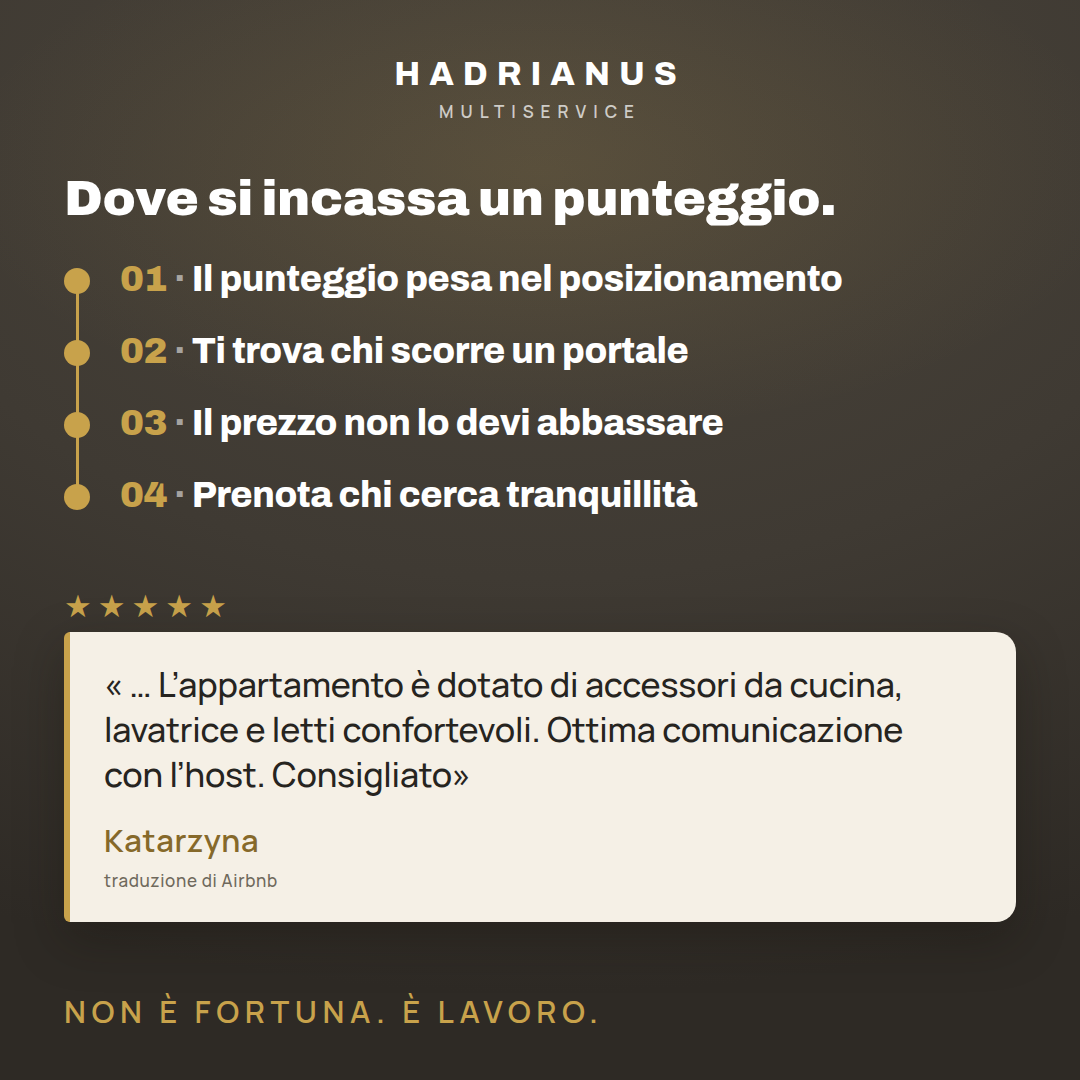
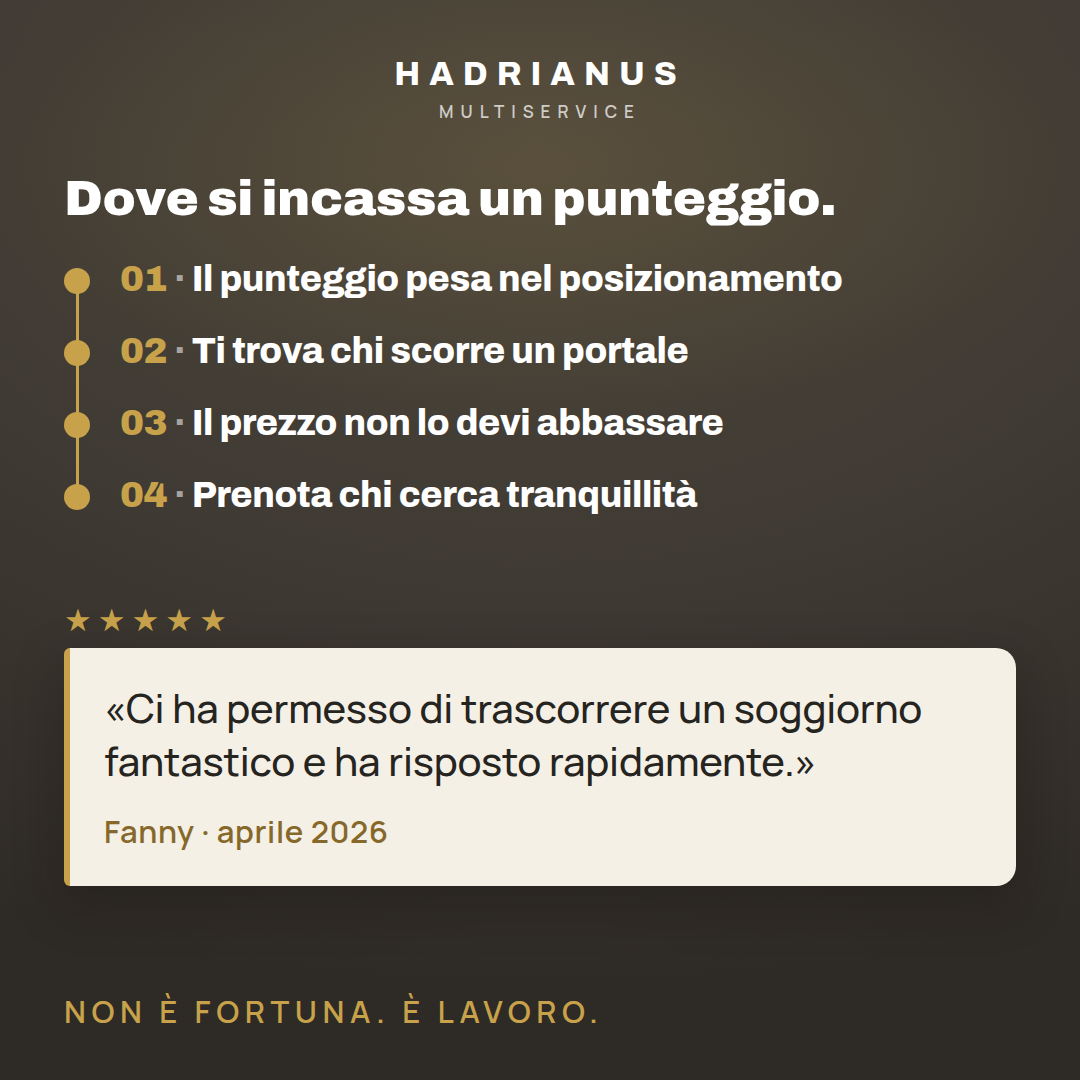
Giornata 18/09: chiuso l'ultimo bloccante, recensioni sostituite
Due delle tre recensioni a schermo ora sono mai pubblicate: Stefania
nella storia 1 (italiana, quindi senza riga di traduzione) e Fanny nel
quadrato Facebook. Attila resta nel carosello: e' la citazione piu' forte
dell'archivio. Nel testo lungo entra Anne Loes.

Il cambio ha reso falsa la riga "non parlano del mare": riscritta in
forma verificabile. Il conteggio per tema e' stato tolto del tutto
perche' sul gruppo effettivo nessun tema copre tutte e quattro.

Aggiunto un registro degli utilizzi all'archivio delle recensioni, cosi'
il problema non si ripresenta.

Claude-Session: https://claude.ai/code/session_01DiTAjmkDvMJQQ8X5h72M34

Changed region(s): [[0.0611, 0.55, 0.9472, 0.7333], [0.0611, 0.7639, 0.9472, 0.8556]]

diff --git a/campagne/giornaliero/2026-09-18/grafiche/F2.dc.html b/campagne/giornaliero/2026-09-18/grafiche/F2.dc.html
@@ -28,8 +28,8 @@
   <div style="position: absolute; left: 120px; right: 64px; top: 404px; font-family: 'Archivo', 'Helvetica Neue', Arial, sans-serif; font-weight: 800; font-size: 36px; line-height: 1.1; letter-spacing: -0.4px; color: #FFFFFF;"><span style="color: #C8A24B; font-weight: 900;">03</span><span style="color: rgba(255,255,255,0.55);"> · </span>Il prezzo non lo devi abbassare</div>
   <div style="position: absolute; left: 64px; top: 484px; width: 26px; height: 26px; border-radius: 999px; background: #C8A24B;"></div>
   <div style="position: absolute; left: 120px; right: 64px; top: 476px; font-family: 'Archivo', 'Helvetica Neue', Arial, sans-serif; font-weight: 800; font-size: 36px; line-height: 1.1; letter-spacing: -0.4px; color: #FFFFFF;"><span style="color: #C8A24B; font-weight: 900;">04</span><span style="color: rgba(255,255,255,0.55);"> · </span>Prenota chi cerca tranquillità</div>
-  <div style="position: absolute; left: 64px; right: 64px; top: 590px; text-align: left; font-size: 31px; letter-spacing: 6px; color: #C8A24B; line-height: 1;">★★★★★</div>
-  <div style="position: absolute; left: 64px; right: 64px; top: 632px; background: #F5F0E6; border-left: 6px solid #C8A24B; border-radius: 6px 20px 20px 6px; padding: 30px 40px 30px 34px; box-shadow: 0 18px 48px rgba(20,17,13,0.34);"><div style="font-family: 'Manrope', 'Helvetica Neue', Arial, sans-serif; font-weight: 500; font-size: 34px; line-height: 1.32; letter-spacing: -0.2px; color: #26241F;"><div>&laquo; &hellip; L&rsquo;appartamento &egrave; dotato di accessori da cucina,</div><div>lavatrice e letti confortevoli. Ottima comunicazione</div><div>con l&rsquo;host. Consigliato&raquo;</div></div><div style="margin-top: 22px; font-family: 'Manrope', 'Helvetica Neue', Arial, sans-serif; font-weight: 600; font-size: 31px; letter-spacing: 0.02em; color: #86692A;">Katarzyna</div><div style="font-family: 'Manrope', 'Helvetica Neue', Arial, sans-serif; font-weight: 500; font-size: 17px; letter-spacing: 0.04em; color: #6f695c; margin-top: 8px;">traduzione di Airbnb</div></div>
+  <div style="position: absolute; left: 64px; right: 64px; top: 604px; text-align: left; font-size: 31px; letter-spacing: 6px; color: #C8A24B; line-height: 1;">★★★★★</div>
+  <div style="position: absolute; left: 64px; right: 64px; top: 648px; background: #F5F0E6; border-left: 6px solid #C8A24B; border-radius: 6px 20px 20px 6px; padding: 34px 40px 34px 34px; box-shadow: 0 18px 48px rgba(20,17,13,0.34);"><div style="font-family: 'Manrope', 'Helvetica Neue', Arial, sans-serif; font-weight: 500; font-size: 40px; line-height: 1.32; letter-spacing: -0.2px; color: #26241F;"><div>&laquo;Ci ha permesso di trascorrere un soggiorno</div><div>fantastico e ha risposto rapidamente.&raquo;</div></div><div style="margin-top: 22px; font-family: 'Manrope', 'Helvetica Neue', Arial, sans-serif; font-weight: 600; font-size: 31px; letter-spacing: 0.02em; color: #86692A;">Fanny &middot; aprile 2026</div></div>
   <div style="position: absolute; left: 64px; right: 64px; top: 990px; text-align: left; font-family: 'Manrope', 'Helvetica Neue', Arial, sans-serif; font-weight: 600; font-size: 31px; letter-spacing: 0.18em; text-transform: uppercase; color: #C8A24B;">Non &egrave; fortuna. &Egrave; lavoro.</div>
   </div>
 </x-dc>

diff --git a/campagne/giornaliero/2026-09-18/grafiche/S1.dc.html b/campagne/giornaliero/2026-09-18/grafiche/S1.dc.html
@@ -25,7 +25,7 @@
   <div style="position: absolute; left: 64px; top: 730px; width: 180px; height: 3px; background: #C8A24B; border-radius: 2px;"></div>
   <div style="position: absolute; left: 64px; right: 64px; top: 770px; text-align: left; font-family: 'Archivo', 'Helvetica Neue', Arial, sans-serif; font-weight: 800; font-size: 50px; line-height: 1.2; letter-spacing: -0.4px; color: #FFFFFF;"><div>Il punteggio &egrave; la ragione per cui puoi</div><div>non farlo: chi ti trova ha gi&agrave;</div><div>un motivo per fidarsi.</div></div>
   <div style="position: absolute; left: 64px; right: 64px; top: 990px; text-align: left; font-size: 31px; letter-spacing: 6px; color: #C8A24B; line-height: 1;">★★★★★</div>
-  <div style="position: absolute; left: 64px; right: 64px; top: 1032px; background: #F5F0E6; border-left: 6px solid #C8A24B; border-radius: 6px 20px 20px 6px; padding: 34px 40px 34px 34px; box-shadow: 0 18px 48px rgba(20,17,13,0.34);"><div style="font-family: 'Manrope', 'Helvetica Neue', Arial, sans-serif; font-weight: 500; font-size: 38px; line-height: 1.34; letter-spacing: -0.2px; color: #26241F;"><div>&laquo;&hellip; L&rsquo;appartamento era pulito, confortevole e</div><div>preparato per il nostro arrivo&hellip; Consiglio</div><div>vivamente questo posto!&raquo;</div></div><div style="margin-top: 22px; font-family: 'Manrope', 'Helvetica Neue', Arial, sans-serif; font-weight: 600; font-size: 31px; letter-spacing: 0.02em; color: #86692A;">Paweł &middot; giugno 2026</div><div style="font-family: 'Manrope', 'Helvetica Neue', Arial, sans-serif; font-weight: 500; font-size: 17px; letter-spacing: 0.04em; color: #6f695c; margin-top: 8px;">traduzione di Airbnb</div></div>
+  <div style="position: absolute; left: 64px; right: 64px; top: 1032px; background: #F5F0E6; border-left: 6px solid #C8A24B; border-radius: 6px 20px 20px 6px; padding: 34px 40px 34px 34px; box-shadow: 0 18px 48px rgba(20,17,13,0.34);"><div style="font-family: 'Manrope', 'Helvetica Neue', Arial, sans-serif; font-weight: 500; font-size: 38px; line-height: 1.34; letter-spacing: -0.2px; color: #26241F;"><div>&laquo;zona gradevole e ben servita, vicinissima al</div><div>mare. casa pulitissima, efficiente, ben arredata,</div><div>luminosa. host paziente, vigile e sempre attento&raquo;</div></div><div style="margin-top: 22px; font-family: 'Manrope', 'Helvetica Neue', Arial, sans-serif; font-weight: 600; font-size: 31px; letter-spacing: 0.02em; color: #86692A;">Stefania &middot; aprile 2026</div></div>
   <div style="position: absolute; left: 64px; right: 64px; top: 1380px; text-align: left; font-family: 'Manrope', 'Helvetica Neue', Arial, sans-serif; font-weight: 600; font-size: 33px; line-height: 1.16; letter-spacing: -0.4px; color: rgba(255,255,255,0.72);"><div>Non &egrave; fortuna. &Egrave; lavoro fatto tutti i giorni.</div></div>
   <div style="position: absolute; left: 64px; right: 64px; top: 1460px; height: 90px; background: #C8A24B; border-radius: 999px; display: flex; align-items: center; justify-content: center; font-family: 'Archivo', 'Helvetica Neue', Arial, sans-serif; font-weight: 800; font-size: 40px; letter-spacing: 0.06em; text-transform: uppercase; color: #2E2A25;">Scrivi &laquo;PUNTEGGIO&raquo; in DM</div>
   </div>

diff --git a/campagne/giornaliero/2026-09-18/grafiche/C4.dc.html b/campagne/giornaliero/2026-09-18/grafiche/C4.dc.html
@@ -33,7 +33,7 @@
   <div style="position: absolute; left: 64px; right: 64px; top: 470px; text-align: left; font-family: 'Archivo', 'Helvetica Neue', Arial, sans-serif; font-weight: 800; font-size: 45px; line-height: 1.16; letter-spacing: -0.4px; color: rgba(255,255,255,0.88);"><div>Chi ha poco tempo non compra</div><div>il risparmio. Compra la certezza.</div></div>
   <div style="position: absolute; left: 64px; right: 64px; top: 648px; text-align: left; font-size: 31px; letter-spacing: 6px; color: #C8A24B; line-height: 1;">★★★★★</div>
   <div style="position: absolute; left: 64px; right: 64px; top: 690px; background: #F5F0E6; border-left: 6px solid #C8A24B; border-radius: 6px 20px 20px 6px; padding: 34px 40px 34px 34px; box-shadow: 0 18px 48px rgba(20,17,13,0.34);"><div style="font-family: 'Manrope', 'Helvetica Neue', Arial, sans-serif; font-weight: 500; font-size: 38px; line-height: 1.34; letter-spacing: -0.2px; color: #26241F;"><div>&laquo; &hellip; L&rsquo;appartamento era in ordine sotto</div><div>ogni aspetto, splendidamente pulito,</div><div>ordinato e confortevole&hellip; &raquo;</div></div><div style="margin-top: 22px; font-family: 'Manrope', 'Helvetica Neue', Arial, sans-serif; font-weight: 600; font-size: 31px; letter-spacing: 0.02em; color: #86692A;">Attila &middot; agosto 2026</div><div style="font-family: 'Manrope', 'Helvetica Neue', Arial, sans-serif; font-weight: 500; font-size: 17px; letter-spacing: 0.04em; color: #6f695c; margin-top: 8px;">traduzione di Airbnb</div></div>
-  <div style="position: absolute; left: 64px; right: 64px; top: 1030px; text-align: left; font-family: 'Manrope', 'Helvetica Neue', Arial, sans-serif; font-weight: 600; font-size: 33px; line-height: 1.32; letter-spacing: -0.4px; color: #FFFFFF;"><div>Guarda di cosa parlano: pulizia, arrivo preparato,</div><div>risposte. Non parlano del mare.</div></div>
+  <div style="position: absolute; left: 64px; right: 64px; top: 1020px; text-align: left; font-family: 'Manrope', 'Helvetica Neue', Arial, sans-serif; font-weight: 600; font-size: 33px; line-height: 1.32; letter-spacing: -0.4px; color: #FFFFFF;"><div>La posizione &egrave; gi&agrave; l&igrave;: non la puoi migliorare.</div><div>Quello che raccontano &egrave; la pulizia e le risposte.</div></div>
   <div style="position: absolute; left: 64px; right: 64px; top: 1130px; text-align: left; font-family: 'Manrope', 'Helvetica Neue', Arial, sans-serif; font-weight: 600; font-size: 33px; line-height: 1.32; letter-spacing: -0.4px; color: rgba(255,255,255,0.72);"><div>Non &egrave; il prezzo a educare l&rsquo;ospite: &egrave; il</div><div>posizionamento a filtrare chi prenota.</div></div>
   <div style="position: absolute; left: 64px; top: 1250px; font-family: 'Manrope', 'Helvetica Neue', Arial, sans-serif; font-weight: 600; font-size: 17px; letter-spacing: 5px; color: #C8A24B;">4 / 5</div>
   </div>

diff --git a/campagne/giornaliero/2026-09-18/grafiche/build.py b/campagne/giornaliero/2026-09-18/grafiche/build.py
@@ -159,8 +159,13 @@ def carosello():
          'ogni aspetto, splendidamente pulito,',
          'ordinato e confortevole&hellip; &raquo;'],
         'Attila &middot; agosto 2026')
-    c += blocco(['Guarda di cosa parlano: pulizia, arrivo preparato,',
-                 'risposte. Non parlano del mare.'], 1030, 33, 600, BIANCO, font=MA, lh=1.32)
+    # «Non parlano del mare» non e' piu' vero sul gruppo citato (Stefania scrive
+    # «vicinissima al mare», Attila la spiaggia, Anne Loes il treno). Riscritta
+    # nella forma difendibile: la posizione e' gia' li' e non si migliora,
+    # il resto e' lavoro. Nessun conteggio: nessun tema copre tutte e quattro.
+    c += blocco(['La posizione &egrave; gi&agrave; l&igrave;: non la puoi migliorare.',
+                 'Quello che raccontano &egrave; la pulizia e le risposte.'],
+                1020, 33, 600, BIANCO, font=MA, lh=1.32)
     c += blocco(['Non &egrave; il prezzo a educare l&rsquo;ospite: &egrave; il',
                  'posizionamento a filtrare chi prenota.'], 1130, 33, 600, T3, font=MA, lh=1.32)
     c += indice('4 / 5')
@@ -218,13 +223,17 @@ def facebook():
         ('03', 'Il prezzo non lo devi abbassare'),
         ('04', 'Prenota chi cerca tranquillità'),
     ], passo=72, size=36)
-    c += stelle(590, size=31)
+    # Fanny sta intera: nessun taglio, quindi niente puntini. Non e' marcata
+    # come tradotta nell'archivio, quindi niente riga di traduzione.
+    # Citazione corta: il corpo sale a 40 invece di scendere, cosi' la card
+    # resta la zona luminosa dominante invece di diventare un francobollo.
+    c += stelle(604, size=31)
     c += card_recensione(
-        632,
-        ['&laquo; &hellip; L&rsquo;appartamento &egrave; dotato di accessori da cucina,',
-         'lavatrice e letti confortevoli. Ottima comunicazione',
-         'con l&rsquo;host. Consigliato&raquo;'],
-        'Katarzyna', size=34, size_meta=31, pad_v=30, lh=1.32)
+        648,
+        ['&laquo;Ci ha permesso di trascorrere un soggiorno',
+         'fantastico e ha risposto rapidamente.&raquo;'],
+        'Fanny &middot; aprile 2026', traduzione=False,
+        size=40, size_meta=31, pad_v=34, lh=1.32)
     c += kicker('Non &egrave; fortuna. &Egrave; lavoro.', 990, colore=ORO, size=31)
     scrivi(os.path.join(HERE, 'F2.dc.html'), c)
 
@@ -259,12 +268,14 @@ def storie():
                  'non farlo: chi ti trova ha gi&agrave;',
                  'un motivo per fidarsi.'], 770, 50, 800, BIANCO, lh=1.2)
     c += stelle(990, size=31)
+    # Stefania scrive in italiano: la riga «traduzione di Airbnb» NON va.
+    # Il testo e' minuscolo all'inizio come su Airbnb: e' verbatim, non si corregge.
     c += card_recensione(
         1032,
-        ['&laquo;&hellip; L&rsquo;appartamento era pulito, confortevole e',
-         'preparato per il nostro arrivo&hellip; Consiglio',
-         'vivamente questo posto!&raquo;'],
-        'Paweł &middot; giugno 2026')
+        ['&laquo;zona gradevole e ben servita, vicinissima al',
+         'mare. casa pulitissima, efficiente, ben arredata,',
+         'luminosa. host paziente, vigile e sempre attento&raquo;'],
+        'Stefania &middot; aprile 2026', traduzione=False)
     c += blocco(['Non &egrave; fortuna. &Egrave; lavoro fatto tutti i giorni.'],
                 1380, 33, 600, T3, font=MA)
     c += cta_pillola(1460, 'Scrivi &laquo;PUNTEGGIO&raquo; in DM', h=90, size=40)

diff --git a/campagne/giornaliero/2026-09-18/copy.md b/campagne/giornaliero/2026-09-18/copy.md
@@ -7,10 +7,13 @@
 **Seed grafico di giornata:** `180926`. Base fumè `#3F3A33`, oro `#C8A24B`, testo `#FFF`, scuro `#2E2A25`.
 
 > **Aggiornato il 18/09/2026 dopo `checklist-compliance.md`.** Applicati i bloccanti 2-7 (citazione
-> Katarzyna riaperta con `…`, caveat Cornell a corpo 26, conteggio sulle sei voci allineato al cinque,
-> parafrasi Booking ammorbidita, etichette proprie del reel, numeri tolti dai kicker). Il bloccante 1
-> (riuso delle cinque recensioni già pubblicate in `facebook-recensioni-superhost`) resta **aperto**:
-> serve una decisione del titolare, e finché non c'è il pacchetto non si pubblica.
+> caveat Cornell a corpo 26, conteggio sulle sei voci allineato al cinque,
+> parafrasi Booking ammorbidita, etichette proprie del reel, numeri tolti dai kicker). Il bloccante 2
+> (Katarzyna tagliata senza `…`) è **superato**: Katarzyna non fa più parte del pacchetto. Il bloccante 1
+> (riuso delle recensioni) è **chiuso**: il titolare ha rimesso la scelta a noi, e i tre slot a schermo
+> usano ora **Stefania** (S1) e **Fanny** (F2), mai pubblicate, con **Attila** invariato in C4 perché è
+> la citazione più forte dell'archivio. Nel testo lungo di Facebook le citate sono Stefania, Fanny,
+> **Anne Loes** e Attila. Registrato in `facebook-recensioni-superhost/recensioni-reali.md`.
 
 ## Canale
 Pacchetto completo: 1 reel 9:16 (in Canva) · 1 carosello 5 slide 4:5 · 1 post Facebook (testo + 3 immagini: 9:16 + 2× 1:1) · 2 storie autoconclusive 9:16.
@@ -27,9 +30,9 @@ Pacchetto completo: 1 reel 9:16 (in Canva) · 1 carosello 5 slide 4:5 · 1 post 
 - **Nessuna struttura nominata, nessun risultato Hadrianus, nessun badge come protagonista.**
 - **Recensioni verbatim:** solo stelle (★★★★★), testo, mese e al massimo il nome di battesimo. **Niente nome della casa, niente indirizzo, niente foto dell'immobile, niente logo Airbnb ricostruito, nessun falso screenshot.** Card pulite in stile Hadrianus.
 - **Nessun punteggio aggregato, decisione chiusa dal titolare (18/09).** Vietati a schermo e nel testo: punteggio complessivo, numero di recensioni, punteggi per categoria. Niente «4,9», niente «47 recensioni». Non è un dato mancante da marcare: è un dato che **abbiamo deciso di non usare**. Nessun marcatore aperto nei file.
-- **Le prove a schermo sono due, e bastano:** le cinque recensioni verbatim **a cinque stelle** (le stelle per singola recensione sono nello screenshot, quelle sì) e il **livello Superhost attivo**.
+- **Le prove a schermo sono due, e bastano:** le recensioni verbatim **a cinque stelle** (tre a schermo, quattro citate nel testo Facebook) (le stelle per singola recensione sono nello screenshot, quelle sì) e il **livello Superhost attivo**.
 - **Superhost — regola d'uso stretta.** Confermato attivo, raggiunto **in due mesi partendo da un profilo nuovo**. Vale come **una riga di appoggio, una sola, in un formato largo** (post Facebook; al massimo l'ultima slide del carosello). Serve solo a chiudere l'obiezione muta «voi ce le avete perché siete lì da anni». **Non è il gancio** (già usato in `reel-superhost-acquisizione`), non è il protagonista, niente confronti con la media, nessuna percentuale. **Fuori dal reel e fuori dalle storie.**
-- **Traduzioni:** Attila, Martin, Paweł e Katarzyna sono ospiti stranieri e i testi sono tradotti da Airbnb. Dove si citano, a schermo va la riga `traduzione di Airbnb`.
+- **Traduzioni:** **Attila** e **Anne Loes** sono ospiti stranieri e i testi sono tradotti da Airbnb: dove si citano va la riga `traduzione di Airbnb`. **Stefania** (italiana) e **Fanny** (non marcata come tradotta nell'archivio) **non** portano quella riga.
 - **Tagli:** consentito accorciare con `…`, vietato riscrivere anche una sola parola. Sono prova, non copy.
 
 ## Recensioni verbatim — testi usati e capienza degli slot
@@ -38,13 +41,13 @@ Fonte: screenshot di annuncio Airbnb reale gestito da Hadrianus, fornito dal tit
 
 | Slot | Dove | Testo a schermo (verbatim, così com'è) | Battute | Meta a schermo |
 |---|---|---|---|---|
-| R1 | Storia 1, card centrale | «… L'appartamento era pulito, confortevole e preparato per il nostro arrivo… Consiglio vivamente questo posto!» — **testo effettivamente a schermo**; l'originale integrale (198 battute) non entrava nella card senza ridurre il corpo | 105 — 3 righe, Manrope 500 corpo 38 | ★★★★★ · Paweł · giugno 2026 · `traduzione di Airbnb` |
+| R1 | Storia 1, card centrale | «zona gradevole e ben servita, vicinissima al mare. casa pulitissima, efficiente, ben arredata, luminosa. host paziente, vigile e sempre attento» — **integrale, nessun taglio**. Il minuscolo iniziale è di Airbnb: verbatim, non si corregge | 148 — 3 righe, Manrope 500 corpo 38 | ★★★★★ · Stefania · aprile 2026 · **nessuna riga di traduzione: è italiana** |
 | R2 | Carosello C4, card alta | «… L'appartamento era in ordine sotto ogni aspetto, splendidamente pulito, ordinato e confortevole…» — **testo effettivamente a schermo**, stessa forma già usata nel testo Facebook | 101 — 3 righe, Manrope 500 corpo 38 | ★★★★★ · Attila · agosto 2026 · `traduzione di Airbnb` |
-| R3 | Facebook F2, riquadro basso | «… L'appartamento è dotato di accessori da cucina, lavatrice e letti confortevoli. Ottima comunicazione con l'host. Consigliato» | 124 — capienza 130 (3 righe × 44, Manrope 500 corpo 34) | ★★★★★ · Katarzyna · `traduzione di Airbnb` (mese nel testo del post) |
-| R4 | Testo Facebook (solo testo, non a schermo) | «Appartamento ben curato e pulito, ottima posizione.» — Aline, giugno 2026 | 51 | — |
-| R5 | Testo Facebook (solo testo, non a schermo) | «Appartamento bello e pulito, vicino alla spiaggia e alla metropolitana…» — Martin, giugno 2026, traduzione di Airbnb | 71 | — |
+| R3 | Facebook F2, riquadro basso | «Ci ha permesso di trascorrere un soggiorno fantastico e ha risposto rapidamente.» — **integrale, nessun taglio, nessun puntino** | 79 — 2 righe, Manrope 500 corpo **40** (citazione corta: il corpo sale, così la card resta la zona luminosa dominante) | ★★★★★ · Fanny · aprile 2026 · **nessuna riga di traduzione: non è marcata come tradotta** |
+| R4 | Testo Facebook (solo testo, non a schermo) | «Ci è piaciuto molto soggiornare in questo appartamento! Era moderno, pulito e arredato con cura. Letto e divano molto comodi…» — Anne Loes, maggio 2026, traduzione di Airbnb | 127 | — |
+| R5 | — | *(slot chiuso: le citate nel testo Facebook sono quattro — Stefania, Fanny, Anne Loes, Attila)* | — | — |
 
-**Il filo che le tiene insieme (da portare a galla nel carosello e su Facebook):** cinque recensioni su cinque parlano di **pulizia, preparazione dell'arrivo e comunicazione con l'host**. Nessuno scrive «bella casa». Parlano di lavoro, non di fortuna e non del mare.
+**Il filo che le tiene insieme (da portare a galla nel carosello e su Facebook):** la **posizione** viene nominata, ed è l'unica voce che il proprietario non può migliorare — è già lì. Quello che le quattro recensioni *raccontano* è **pulizia, casa pronta e risposte dell'host**: lavoro, non fortuna. **Nessun conteggio per tema**: sul gruppo scelto nessun singolo tema copre tutte e quattro, quindi «quattro su quattro parlano di X» non si scrive.
 
 ---
 
@@ -273,7 +276,7 @@ Riga fonte (Manrope 500 corpo 17): `traduzione di Airbnb`
 A schermo **nessun nome di casa, nessun indirizzo, nessuna foto, nessun logo Airbnb, nessun punteggio aggregato**.
 
 **Il filo (riga di lettura sotto la card, Manrope 600 corpo 33)**
-`Guarda di cosa parlano: pulizia, arrivo preparato, risposte. Non parlano del mare.`
+`La posizione è già lì: non la puoi migliorare.` / `Quello che raccontano è la pulizia e le risposte.`
 
 **Coda anello 5 — riformulata, mezza frase, non in chiusura (Manrope 600, 33)**
 `Non è il prezzo a educare l'ospite: è il posizionamento a filtrare chi prenota.`
@@ -308,7 +311,7 @@ Fondo pieno fumè, nessuna fotografia — la card della recensione è il soggett
 |---|---|---|
 | 1 | «Chi ha poco tempo compra la certezza» | **(c)** difendibile senza numeri. Dato Expedia «3 su 4» **(a) parziale, fonte primaria non verificata** — **non usato a schermo** |
 | 2 | Recensione Attila, 5 stelle, agosto 2026 | CONFERMATO — verbatim da screenshot Airbnb fornito dal titolare 18/09/2026. Tagliata con `…`, **nessuna parola riscritta**. Riga «traduzione di Airbnb» obbligatoria |
-| 3 | «Pulizia, arrivo preparato, risposte» | **(c)** lettura dei testi stessi delle recensioni, verificabile a schermo |
+| 3 | «La posizione è già lì… quello che raccontano è la pulizia e le risposte» | **(c)** lettura del testo a schermo. **Riscritta il 18/09**: la forma precedente («non parlano del mare») non regge sul gruppo di recensioni scelto, in cui la posizione viene nominata |
 | 4 | «È il posizionamento a filtrare chi prenota» | **(c)** riformulazione compliance-safe dell'anello 5. Vietata la versione causale «chi paga di più tratta meglio la casa» |
 | 5 | Nessun punteggio aggregato, nessun badge in questa slide | assente per scelta |
 
@@ -338,7 +341,7 @@ CTA         | Scrivi "PUNTEGGIO" in DM
 Le recensioni non sono un complimento. Sono un prezzo.
 Il punteggio pesa in come esci quando qualcuno cerca una casa — lo dicono le piattaforme stesse. Più visibilità dove i clienti cercano davvero. Chi ti trova ha già un motivo per fidarsi. E allora il prezzo non lo devi abbassare.
 Nell'hotellerie questo legame è misurato da anni: uno studio Cornell del 2012 (Anderson, Center for Hospitality Research) stima che **+1 punto di valutazione su scala 5 permetta circa +11% di prezzo a occupazione invariata**. È un dato sul settore alberghiero, non sulle case vacanza, e non è una promessa sulla tua casa: è la direzione.
-Quel punteggio non è fortuna. Guarda di cosa parlano davvero le recensioni: pulizia, arrivo preparato, risposte. Non parlano del mare.
+Quel punteggio non è fortuna. La posizione, quando la nominano, è già lì: non la puoi migliorare. Quello che raccontano — pulizia, casa pronta, risposte — è lavoro.
 E non è nemmeno un'eredità: il livello Superhost l'abbiamo raggiunto in due mesi, partendo da un profilo nuovo.
 Gestione completa in standard alberghiero, commissione 15% sul fatturato generato. Guadagniamo solo se guadagni tu.
 👉 Scrivi "PUNTEGGIO" in DM.
@@ -399,15 +402,14 @@ Le recensioni non sono un complimento. Sono un prezzo. Funziona in quattro passa
 
 Ecco perché un punteggio alto non è fortuna. Pulizia, accuratezza, check-in, comunicazione: cinque delle sei voci che l'ospite valuta dipendono da come la casa è gestita. Sono lavoro, fatto tutti i giorni, da qualcuno.
 
-E si vede da cosa scrivono gli ospiti. Prendi cinque recensioni a cinque stelle di una casa che gestiamo sul Litorale — niente nome, non serve:
+E si vede da cosa scrivono gli ospiti. Prendi quattro recensioni a cinque stelle di una casa che gestiamo sul Litorale — niente nome, non serve:
 
-★★★★★ «Ci siamo trovati molto bene qui. L'appartamento era pulito, confortevole e preparato per il nostro arrivo, e l'host si è rivelato estremamente cordiale e disponibile. Consiglio vivamente questo posto!» — Paweł, giugno 2026 (traduzione di Airbnb)
+★★★★★ «zona gradevole e ben servita, vicinissima al mare. casa pulitissima, efficiente, ben arredata, luminosa. host paziente, vigile e sempre attento» — Stefania, aprile 2026
+★★★★★ «Ci ha permesso di trascorrere un soggiorno fantastico e ha risposto rapidamente.» — Fanny, aprile 2026
+★★★★★ «Ci è piaciuto molto soggiornare in questo appartamento! Era moderno, pulito e arredato con cura. Letto e divano molto comodi…» — Anne Loes, maggio 2026 (traduzione di Airbnb)
 ★★★★★ «… L'appartamento era in ordine sotto ogni aspetto, splendidamente pulito, ordinato e confortevole…» — Attila, agosto 2026 (traduzione di Airbnb)
-★★★★★ «Appartamento ben curato e pulito, ottima posizione.» — Aline, giugno 2026
-★★★★★ «Appartamento bello e pulito, vicino alla spiaggia e alla metropolitana…» — Martin, giugno 2026 (traduzione di Airbnb)
-★★★★★ «… L'appartamento è dotato di accessori da cucina, lavatrice e letti confortevoli. Ottima comunicazione con l'host. Consigliato» — Katarzyna, giugno 2026 (traduzione di Airbnb)
 
-Cinque su cinque parlano di pulizia, di arrivo preparato, di comunicazione. Nessuno scrive «bella casa». Nessuno ringrazia il mare. Parlano di lavoro — cioè dell'unica parte che si può comprare.
+Quattro recensioni, quattro modi di dire la stessa cosa. La posizione, quando la nominano, è già lì: non la puoi migliorare, è l'unica voce che non dipende da come la casa è gestita. Quello che raccontano — pulizia, casa pronta, risposte veloci — è lavoro, cioè l'unica parte che si può comprare.
 
 Una coda di stagione: siamo a metà settembre e il litorale rallenta. Se in bassa stagione ci sono meno prenotazioni da distribuire, la scelta si stringe sui primi risultati. È lì che il punteggio si fa sentire di più, non di meno. È un ragionamento, non un dato — ma tienilo presente prima di svendere ottobre.
 
@@ -422,8 +424,8 @@ Hadrianus gestisce case a Roma e sul Litorale in standard alberghiero: pricing d
 | 2 | Airbnb: valutazione complessiva e punteggi per categoria nel ranking; Guest Favorite compare nei risultati di ricerca | **(b)** documentato (help article 3496) |
 | 3 | «Il funzionamento esatto resta riservato: nessuno può prometterti una posizione» | **(b)** dichiarato da Booking — riga che protegge dal claim di risultato, non va tagliata |
 | 4 | «+1 punto su 5 ≈ +11% di prezzo a occupazione invariata» | **(a)** CONFERMATO — Cornell CHR, Anderson, nov. 2012 (+11,2%). Attribuzione completa e **entrambi i caveat** (hotel, 2012) presenti nel testo: non rimuovibili |
-| 5 | Cinque recensioni verbatim, 5 stelle | CONFERMATO — screenshot Airbnb fornito dal titolare 18/09/2026. Tagli con `…`, nessuna parola riscritta. Traduzioni attribuite ad Airbnb. **Nessun nome di casa, nessun indirizzo** |
-| 6 | «Cinque su cinque parlano di pulizia, arrivo preparato, comunicazione» | **(c)** lettura verificabile dei testi citati sopra |
+| 5 | Quattro recensioni verbatim, 5 stelle (Stefania, Fanny, Anne Loes, Attila) | CONFERMATO — verbatim da `facebook-recensioni-superhost/recensioni-reali.md`. Tagli con `…`, nessuna parola riscritta. Traduzioni attribuite ad Airbnb. **Nessun nome di casa, nessun indirizzo** |
+| 6 | «Quattro recensioni, quattro modi di dire la stessa cosa… quello che raccontano è lavoro» | **(c)** lettura verificabile dei quattro testi citati sopra. **Nessun conteggio per tema**: sul gruppo citato nessun singolo tema copre tutte e quattro (Fanny non nomina la pulizia, Anne Loes non nomina l'host), quindi «quattro su quattro parlano di X» sarebbe falso |
 | 7 | «Livello Superhost raggiunto in due mesi, partendo da un profilo nuovo» | CONFERMATO dal titolare 18/09/2026. **Una sola riga, in coda, mai gancio** — «Superhost in due mesi» come gancio è già uscito in `reel-superhost-acquisizione` |
 | 8 | Coda stagionale | **(c)** dichiarata come ragionamento, non come dato |
 | 9 | «Commissione 15% sul fatturato generato» / «Guadagniamo solo se guadagni tu» / «standard alberghiero» | CONFERMATO + lessico di brand |
@@ -485,11 +487,11 @@ Caption     | (nel testo del post)
 `03 · Il prezzo non lo devi abbassare`
 `04 · Prenota chi cerca tranquillità`
 
-**Recensione verbatim — riquadro basso (R3, Katarzyna)**
+**Recensione verbatim — riquadro basso (R3, Fanny)**
 Stelle: `★★★★★`
-Testo (verbatim, 124 battute su 130 di capienza):
-`«… L'appartamento è dotato di accessori da cucina, lavatrice e letti confortevoli. Ottima comunicazione con l'host. Consigliato»`
-Meta: `Katarzyna` + riga fonte `traduzione di Airbnb`. Il mese sta nel testo del post.
+Testo (verbatim **integrale**, 79 battute — nessun taglio, quindi nessun puntino):
+`«Ci ha permesso di trascorrere un soggiorno fantastico e ha risposto rapidamente.»`
+Meta: `Fanny · aprile 2026`. **Nessuna riga di traduzione**: nell'archivio non è marcata come tradotta.
 Niente nome casa, indirizzo, foto dell'immobile, logo Airbnb, punteggio aggregato.
 
 **LAYOUT**
@@ -519,7 +521,7 @@ Fondo pieno fumè, nessuna fotografia — la catena numerata e la card sono il s
 | 1 | «Il punteggio pesa nel posizionamento» | **(b)** dichiarato dalle piattaforme |
 | 2 | «Ti trova chi scorre un portale» | **(c)** — quote canali **(d)** non usate |
 | 3 | «Prenota chi cerca tranquillità» | **(c)** — formulazione anti-classista imposta dal brief |
-| 4 | Recensione Katarzyna, 5 stelle | CONFERMATO — verbatim da screenshot Airbnb (titolare, 18/09/2026), nessuna parola riscritta. Riga «traduzione di Airbnb» obbligatoria |
+| 4 | Recensione Fanny, 5 stelle, aprile 2026 | CONFERMATO — verbatim **integrale** da `recensioni-reali.md`, mai pubblicata prima. Nessun taglio, nessun puntino, **nessuna riga di traduzione** (non marcata come tradotta) |
 | 5 | Nessun punteggio aggregato, nessun badge in questa immagine | assente per scelta |
 
 ---
@@ -584,9 +586,9 @@ Caption     | —
 1. Gancio: `Non abbassare il prezzo. Ancora.`
 2. Problema: `Le prenotazioni calano e la prima cosa che si tocca è la tariffa.`
 3. Soluzione: `Il punteggio è la ragione per cui puoi non farlo: chi ti trova ha già un motivo per fidarsi.`
-4. Recensione (R1, Paweł) — stelle `★★★★★`, poi verbatim, 198 battute su 200 di capienza:
-   `«… L'appartamento era pulito, confortevole e preparato per il nostro arrivo… Consiglio vivamente questo posto!»`
-   Meta: `Paweł · giugno 2026` + riga fonte `traduzione di Airbnb`.
+4. Recensione (R1, Stefania) — stelle `★★★★★`, poi verbatim integrale, 148 battute:
+   `«zona gradevole e ben servita, vicinissima al mare. casa pulitissima, efficiente, ben arredata, luminosa. host paziente, vigile e sempre attento»`
+   Meta: `Stefania · aprile 2026`. **Nessuna riga `traduzione di Airbnb`: Stefania è italiana.** Il minuscolo iniziale è verbatim.
    Niente nome casa, indirizzo, foto dell'immobile, logo Airbnb, punteggio aggregato.
 5. Chiusura: `Non è fortuna. È lavoro fatto tutti i giorni.`
 6. CTA: `Scrivi "PUNTEGGIO" in DM`
@@ -621,7 +623,7 @@ Fondo pieno fumè, nessuna fotografia — la card della recensione deve essere l
 | # | Affermazione | Stato |
 |---|---|---|
 | 1 | «Il punteggio è la ragione per cui puoi non abbassare il prezzo» | **(c)** traduzione non quantificata dell'anello 2 (Cornell). Numero **assente per scelta**: senza spazio per i caveat non si cita |
-| 2 | Recensione Paweł, 5 stelle, giugno 2026 | CONFERMATO — verbatim integrale da screenshot Airbnb (titolare, 18/09/2026). Riga «traduzione di Airbnb» obbligatoria |
+| 2 | Recensione Stefania, 5 stelle, aprile 2026 | CONFERMATO — verbatim integrale da `facebook-recensioni-superhost/recensioni-reali.md`, mai pubblicata prima. **Nessuna riga di traduzione** (italiana). Minuscolo iniziale verbatim |
 | 3 | «Non è fortuna. È lavoro fatto tutti i giorni» | **(c)** posizionamento, nessun dato |
 | 4 | Nessun Superhost, nessun punteggio aggregato | assente per scelta — nelle storie non c'è spazio per contestualizzare il badge |
 
@@ -690,7 +692,7 @@ Fondo pieno fumè, nessuna fotografia — elenco tipografico, l'unico accento è
 | # | Cosa | Stato |
 |---|---|---|
 | 1 | Testo esatto della pagina Booking sul ranking (non apribile dall'ambiente di ricerca) | **UNICO APERTO.** Nel post Facebook è parafrasato, mai virgolettato: verificare la parafrasi prima della pubblicazione. Reel, carosello e storie usano solo «il punteggio pesa nel posizionamento», affermazione già coperta da Airbnb |
-| 2 | Le cinque recensioni devono essere **diverse** dalle 9 già usate in `facebook-recensioni-superhost` | da controllare in revisione (incrocio con `facebook-recensioni-superhost/recensioni-reali.md`) |
+| 2 | Le recensioni devono essere **diverse** da quelle già pubblicate | **CHIUSO 18/09** — decisione del titolare rimessa a noi. A schermo: **Stefania** (S1) e **Fanny** (F2), mai pubblicate; **Attila** (C4) confermato per riuso perché è la citazione più forte dell'archivio. Nel testo Facebook si aggiunge **Anne Loes**, mai pubblicata. Pubblicazioni annotate in `recensioni-reali.md` |
 | 3 | Recensioni verbatim | CHIUSO — ricevute dal titolare 18/09/2026 |
 | 4 | Badge Superhost attivo | CHIUSO — confermato attivo dal titolare 18/09/2026 |
 | 5 | Punteggio complessivo, n. recensioni, punteggi per categoria | CHIUSO come **non utilizzo**: il titolare non li fornisce e si è deciso di non usarli. Nessun marcatore aperto nei contenuti |

diff --git a/campagne/giornaliero/2026-09-18/direzione-artistica.md b/campagne/giornaliero/2026-09-18/direzione-artistica.md
@@ -45,7 +45,7 @@ passo 20 px · scala 70·62·50·45·40·33·31·17. Nessun corpo fuori scala.
 
 ## Elementi chiave — gerarchia di lettura
 
-1. **La card recensione in sabbia con bordo sinistro oro da 6 px** (C4, F2, S1). È l'unica superficie
+1. **La card recensione in sabbia con bordo sinistro oro da 6 px** (C4 Attila, F2 Fanny, S1 Stefania). È l'unica superficie
    luminosa su un fondo interamente fumè e ha un'ombra portata `0 18px 48px rgba(20,17,13,.34)`: su un
    feed scuro deve leggersi come **un foglio di carta appoggiato**. È lì che l'occhio cade per primo.
    Dove c'è la card **non c'è nessun'altra superficie chiara**: card e fascia offerta non convivono mai.
@@ -58,8 +58,10 @@ passo 20 px · scala 70·62·50·45·40·33·31·17. Nessun corpo fuori scala.
 
 ### Le regole sulle recensioni, applicate
 
-A schermo compaiono **solo**: `★★★★★` in oro, il testo verbatim, il nome di battesimo, il mese (dove
-previsto) e la riga `traduzione di Airbnb` in `#6f695c` corpo 17. **Assenti per costruzione**: nome della
+A schermo compaiono **solo**: `★★★★★` in oro, il testo verbatim, il nome di battesimo, il mese e — **solo
+dove il testo è davvero tradotto** — la riga `traduzione di Airbnb` in `#6f695c` corpo 17. La porta Attila
+(C4); **non** la portano Stefania (italiana) e Fanny (non marcata come tradotta nell'archivio): metterla
+dove non serve sarebbe un'attribuzione falsa. **Assenti per costruzione**: nome della
 casa, indirizzo, foto dell'immobile, avatar, logo o interfaccia Airbnb, finti screenshot, **e qualsiasi
 punteggio aggregato** (né media, né numero di recensioni, né voci per categoria). Le stelle stanno
 **fuori** dalla card, sopra, in oro su fumè: dentro sarebbero una riproduzione di schermata.
@@ -134,13 +136,22 @@ Le animazioni della colonna di destra sono **indicazioni per il titolare**, non 
 
 | # | Bloccante | Cosa è cambiato |
 |---|---|---|
-| 1 | Riuso delle cinque recensioni | **Sospeso** — in attesa della decisione del titolare. Non toccato |
-| 2 | Katarzyna tagliata senza `…` | F2 e testo Facebook riaprono con `«… L'appartamento è dotato di…`. Card sempre su 3 righe |
+| 1 | Riuso delle recensioni | **CHIUSO 18/09** — scelta rimessa a noi dal titolare. **S1: Paweł → Stefania** (mai pubblicata, italiana, senza riga di traduzione, minuscolo iniziale verbatim) · **F2: Katarzyna → Fanny** (mai pubblicata, integrale, senza taglio e senza traduzione) · **C4: Attila invariato**, è la citazione più forte dell'archivio · testo Facebook: Aline e Martin → **Anne Loes**. Pubblicazioni annotate in `facebook-recensioni-superhost/recensioni-reali.md` |
+| 2 | Katarzyna tagliata senza `…` | **Superato dal punto 1**: Katarzyna esce dal pacchetto. Al suo posto Fanny, citata **integrale** — nessun taglio, quindi nessun puntino da segnalare |
 | 3 | Caveat Cornell illeggibili | C3: corpo **17 → 26**, opacità **.62 → .80**, blocco risalito a y 866. Slide non ricomposta |
 | 4 | Due conteggi delle sei voci | Post Facebook allineato al **cinque** (quello a schermo e quello disegnato in S2) |
 | 5 | Parafrasi Booking | Il dettaglio sulla recency è fuori; resta la formulazione congiunta Booking+Airbnb. Il resto del paragrafo intatto |
 | 6 | Off-by-one del reel | Etichette proprie del reel: `RECENSIONE · VISIBILITÀ · FIDUCIA · PREZZO`. R04 accende `VISIBILITÀ`, R06 `FIDUCIA`, R07 `PREZZO` — e l'evidenziatore oro cade sull'ultimo anello. Aggiornati anche `reel/scene.json` e `reel/canva.html` |
 | 7 | Tre numerazioni in contraddizione | Numero tolto dai kicker: C2 `VISIBILITÀ`, C3 `PREZZO`, C4 `CHI PRENOTA`. Storie senza medaglione: S1 `PREZZO`, S2 `LE SEI VOCI`. **F2 invariato** |
+
+**Conseguenza obbligata del cambio di recensioni.** La riga «Guarda di cosa parlano: pulizia, arrivo
+preparato, risposte. **Non parlano del mare.**» non è più vera su questo gruppo — Stefania scrive
+«vicinissima al mare», Attila la spiaggia e il parcheggio, Anne Loes il treno e i ristoranti. Riscritta
+in C4 e nel paragrafo corrispondente del post nella forma difendibile: **la posizione è già lì e non la
+puoi migliorare; quello che raccontano è la pulizia e le risposte.** E **nessun conteggio per tema**:
+sul gruppo citato nessun singolo tema copre tutte e quattro le recensioni (Fanny non nomina la pulizia,
+Anne Loes non nomina l'host), quindi «quattro su quattro parlano di X» sarebbe falso e non si scrive.
+Il conteggio sopravvive solo dove è vero: «quattro recensioni, quattro modi di dire la stessa cosa».
 
 Non bloccanti chiusi nello stesso giro: `copy.md` riallineato ai PNG (citazioni di Paweł e Attila,
 gancio di S2, tabella slot, tabelle di layout) · `Attila · 3 settimane fa` → **`agosto 2026`**, data

diff --git a/campagne/facebook-recensioni-superhost/recensioni-reali.md b/campagne/facebook-recensioni-superhost/recensioni-reali.md
@@ -2,6 +2,10 @@
 
 Recensioni ricevute su un immobile in gestione Hadrianus (litorale romano). Tutte **5 stelle**. Secondo il titolare sono le recensioni che in **due mesi** hanno portato al riconoscimento **Superhost**.
 
+> **Registro degli utilizzi.** Sotto ogni recensione già uscita c'è una riga che dice **dove e quando**
+> è stata pubblicata. Va aggiornata a ogni nuovo utilizzo: serve a non riproporre due volte la stessa
+> prova allo stesso pubblico. Le recensioni **senza** quella riga non sono mai state pubblicate.
+
 > **Regola d'uso.** Si citano le recensioni e il nome di battesimo dell'ospite come compaiono su Airbnb, **senza mai nominare la struttura, l'indirizzo o il numero civico**: la regola di brand vieta il case study su una singola struttura nominata, non la prova sociale in sé. Non modificare il testo delle recensioni: si può tagliare (con […]), mai riscrivere.
 
 ## Le recensioni (verbatim)
@@ -13,6 +17,7 @@ Recensioni ricevute su un immobile in gestione Hadrianus (litorale romano). Tutt
 > Ci siamo trovati molto bene e consiglio vivamente questo alloggio a chiunque voglia esplorare Roma, ma allo stesso tempo godersi la vicinanza della spiaggia e l'ambiente tranquillo.
 > Grazie mille per l'ospitalità!
 *(tradotta da Airbnb)*
+*(**Già pubblicata.** 18/09/2026 — pacchetto giornaliero `2026-09-18`: **a schermo** nella slide C4 del carosello, e citata nel testo del post Facebook. Riuso approvato dal titolare. A schermo la data è riportata come **agosto 2026**, forma assoluta al posto del «fa» relativo di Airbnb — da confermare sullo screenshot.)*
 
 **Aline** — 6 anni su Airbnb — ★★★★★ — giugno 2026
 > Appartamento ben curato e pulito, ottima posizione.
@@ -35,6 +40,7 @@ Recensioni ricevute su un immobile in gestione Hadrianus (litorale romano). Tutt
 > Ci è piaciuto molto soggiornare in questo appartamento! Era moderno, pulito e arredato con cura. Letto e divano molto comodi. Tutto ciò di cui avevamo bisogno era proprio lì. Mentre il mio partner lavorava usando la scrivania, io mi sono seduta sul divano e ho letto un libro. Era così accogliente e mi è piaciuto molto!
 > Il treno per Roma è a soli 5 minuti a piedi, il che è fantastico. Abbiamo anche visitato un sacco di graziosi ristoranti locali: scegli i piatti di pesce, sono fantastici!
 *(tradotta da Airbnb)*
+*(**Già pubblicata.** 18/09/2026 — pacchetto giornaliero `2026-09-18`: citata nel **testo del post Facebook**, tagliata con `…`. Mai andata a schermo.)*
 
 **Maïwenn** — 6 anni su Airbnb — ★★★★★ — maggio 2026
 > Alloggio molto grazioso, vicino alla spiaggia e a circa 30 minuti dal centro in treno. Abbiamo trascorso un ottimo soggiorno in questo alloggio, grazie!
@@ -42,9 +48,11 @@ Recensioni ricevute su un immobile in gestione Hadrianus (litorale romano). Tutt
 
 **Stefania** — 4 mesi su Airbnb — ★★★★★ — aprile 2026
 > zona gradevole e ben servita, vicinissima al mare. casa pulitissima, efficiente, ben arredata, luminosa. host paziente, vigile e sempre attento
+*(**Già pubblicata.** 18/09/2026 — pacchetto giornaliero `2026-09-18`: **a schermo** nella Storia 1, integrale. Nessuna riga «traduzione di Airbnb»: è italiana. Il minuscolo iniziale resta com'è su Airbnb.)*
 
 **Fanny** — 4 mesi su Airbnb — ★★★★★ — aprile 2026
 > Ci ha permesso di trascorrere un soggiorno fantastico e ha risposto rapidamente.
+*(**Già pubblicata.** 18/09/2026 — pacchetto giornaliero `2026-09-18`: **a schermo** nella 2ª immagine del post Facebook (1080×1080), integrale, nessun taglio. Non marcata come tradotta, quindi nessuna riga di traduzione.)*
 
 ## Cosa dicono queste recensioni, lette insieme
 
